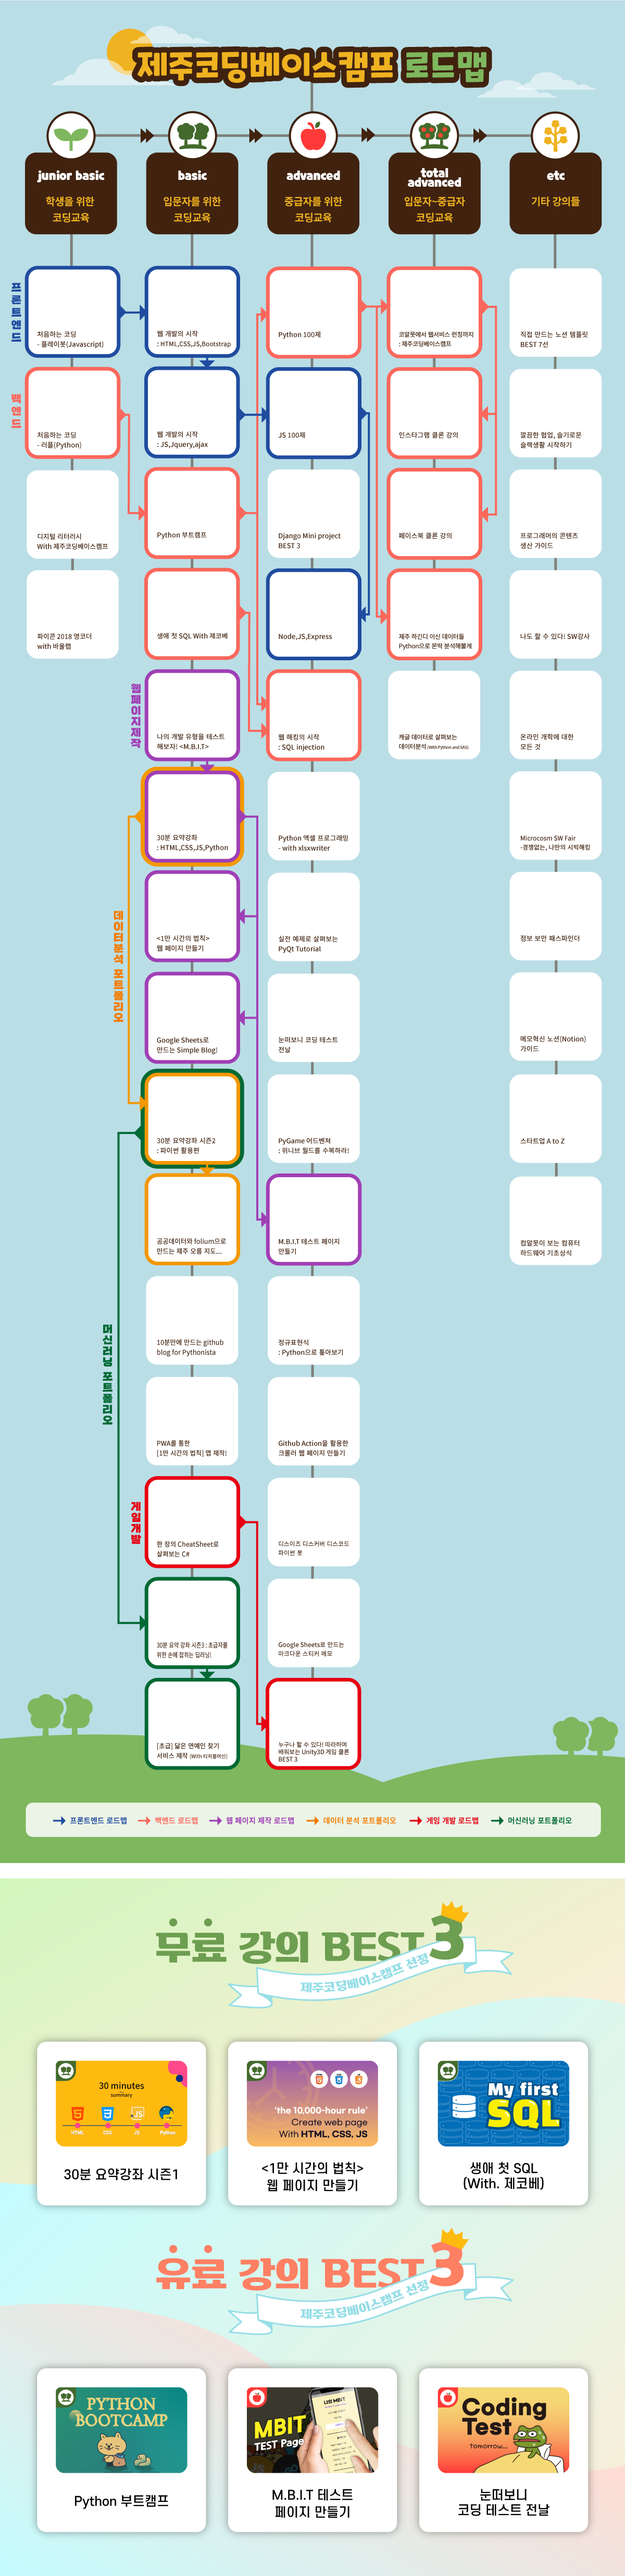
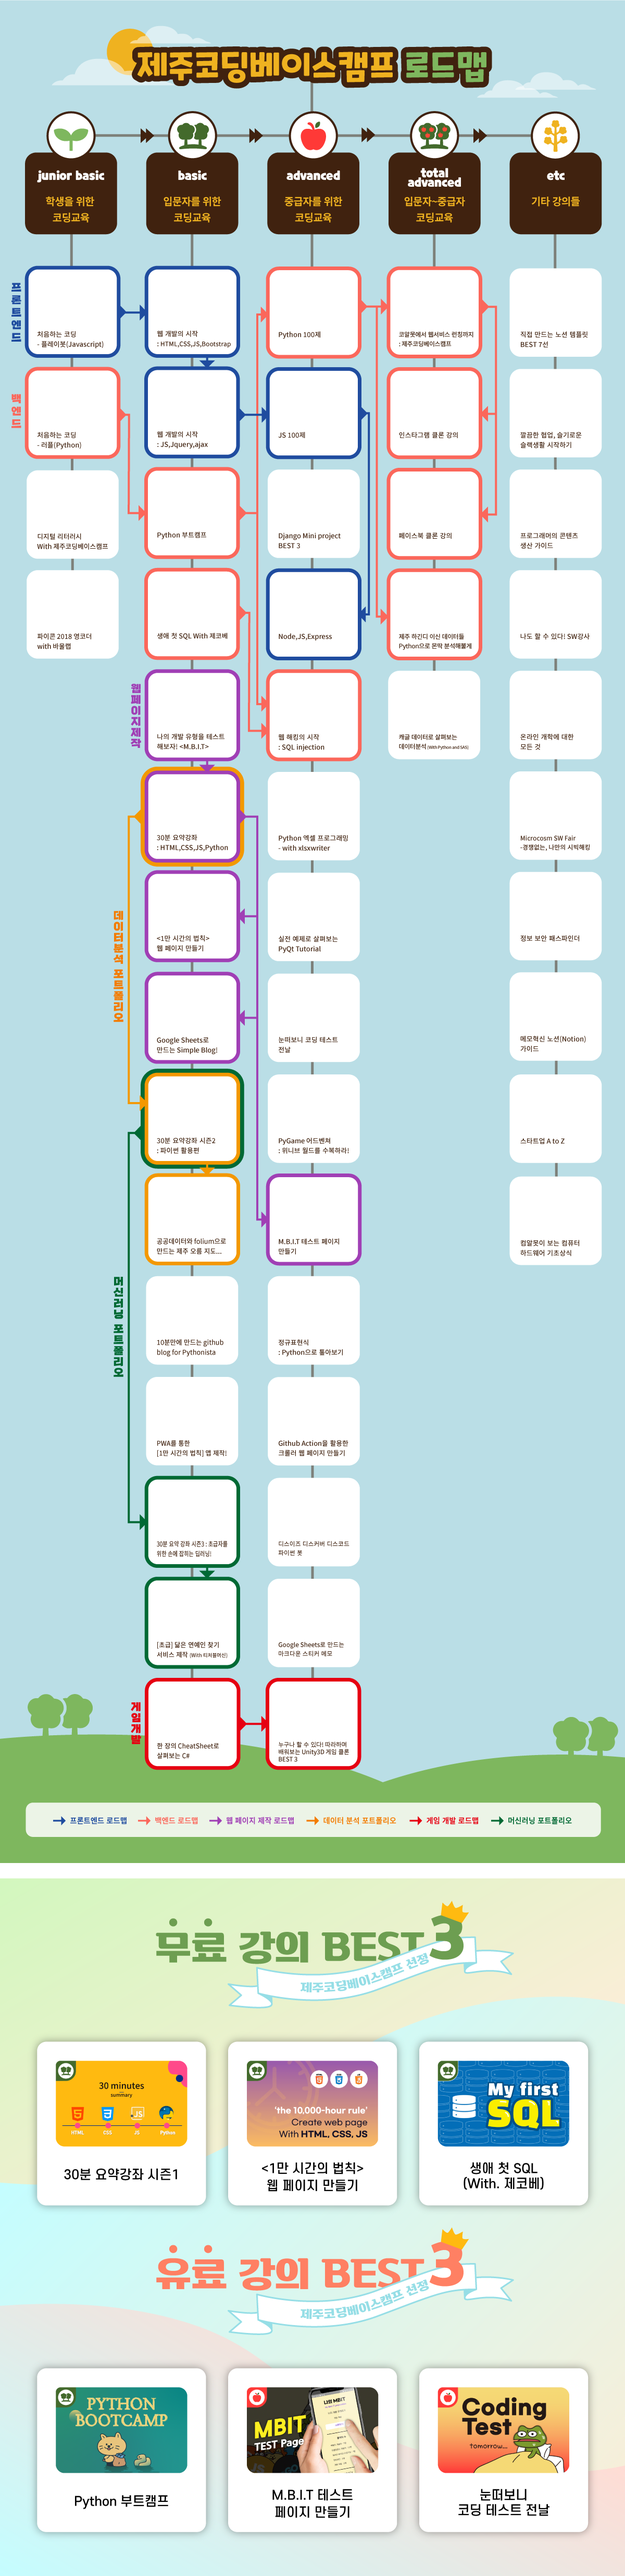
로드맵 수정

Changed region(s): [[0.1542, 0.4365, 0.4317, 0.686], [0.37, 0.6548, 0.4008, 0.686], [0.2158, 0.6548, 0.2467, 0.686]]

diff --git a/Tutorial_Homepage/curriculum.html b/Tutorial_Homepage/curriculum.html
@@ -133,16 +133,16 @@
                   <a href="https://inf.run/AdT1" target="_blank"><img src="images/lecture/lec45.png" alt="10분만에 만드는 github blog for Pythonista"/></a>
                 </div>
                 <div class="lec">
-                  <a href="https://www.inflearn.com/instructors/170213/courses" target="_blank"><img src="images/lecture/lec49.png" alt="PWA를 통한 1만 시간의 법칙 앱 제작!"/></a>
+                  <a href="https://inf.run/rbkX" target="_blank"><img src="images/lecture/lec49.png" alt="PWA를 통한 1만 시간의 법칙 앱 제작!"/></a>
                 </div>
                 <div class="lec">
-                  <a href="https://inf.run/hSWY" target="_blank"><img src="images/lecture/lec47.png" alt="한 장의 cheatsheet로 살펴보는 C#"/></a>
-                </div>
-                <div class="lec">
-                  <a href="https://www.inflearn.com/instructors/170213/courses" target="_blank"><img src="images/lecture/lec48.png" alt="30분 요약 강좌 시즌3 : 초급자를 위한 손에 잡히는 딥러닝!"/></a>
+                  <a href="https://inf.run/2XNu" target="_blank"><img src="images/lecture/lec48.png" alt="30분 요약 강좌 시즌3 : 초급자를 위한 손에 잡히는 딥러닝!"/></a>
                 </div>
                 <div class="lec">
                   <a href="https://inf.run/i7Re" target="_blank"><img src="images/lecture/lec46.png" alt="닮은 연예인 찾기 - 티처블머신"/></a>
+                </div>
+                <div class="lec">
+                  <a href="https://inf.run/hSWY" target="_blank"><img src="images/lecture/lec47.png" alt="한 장의 cheatsheet로 살펴보는 C#"/></a>
                 </div>
               </div>
               <!-- advanced -->
